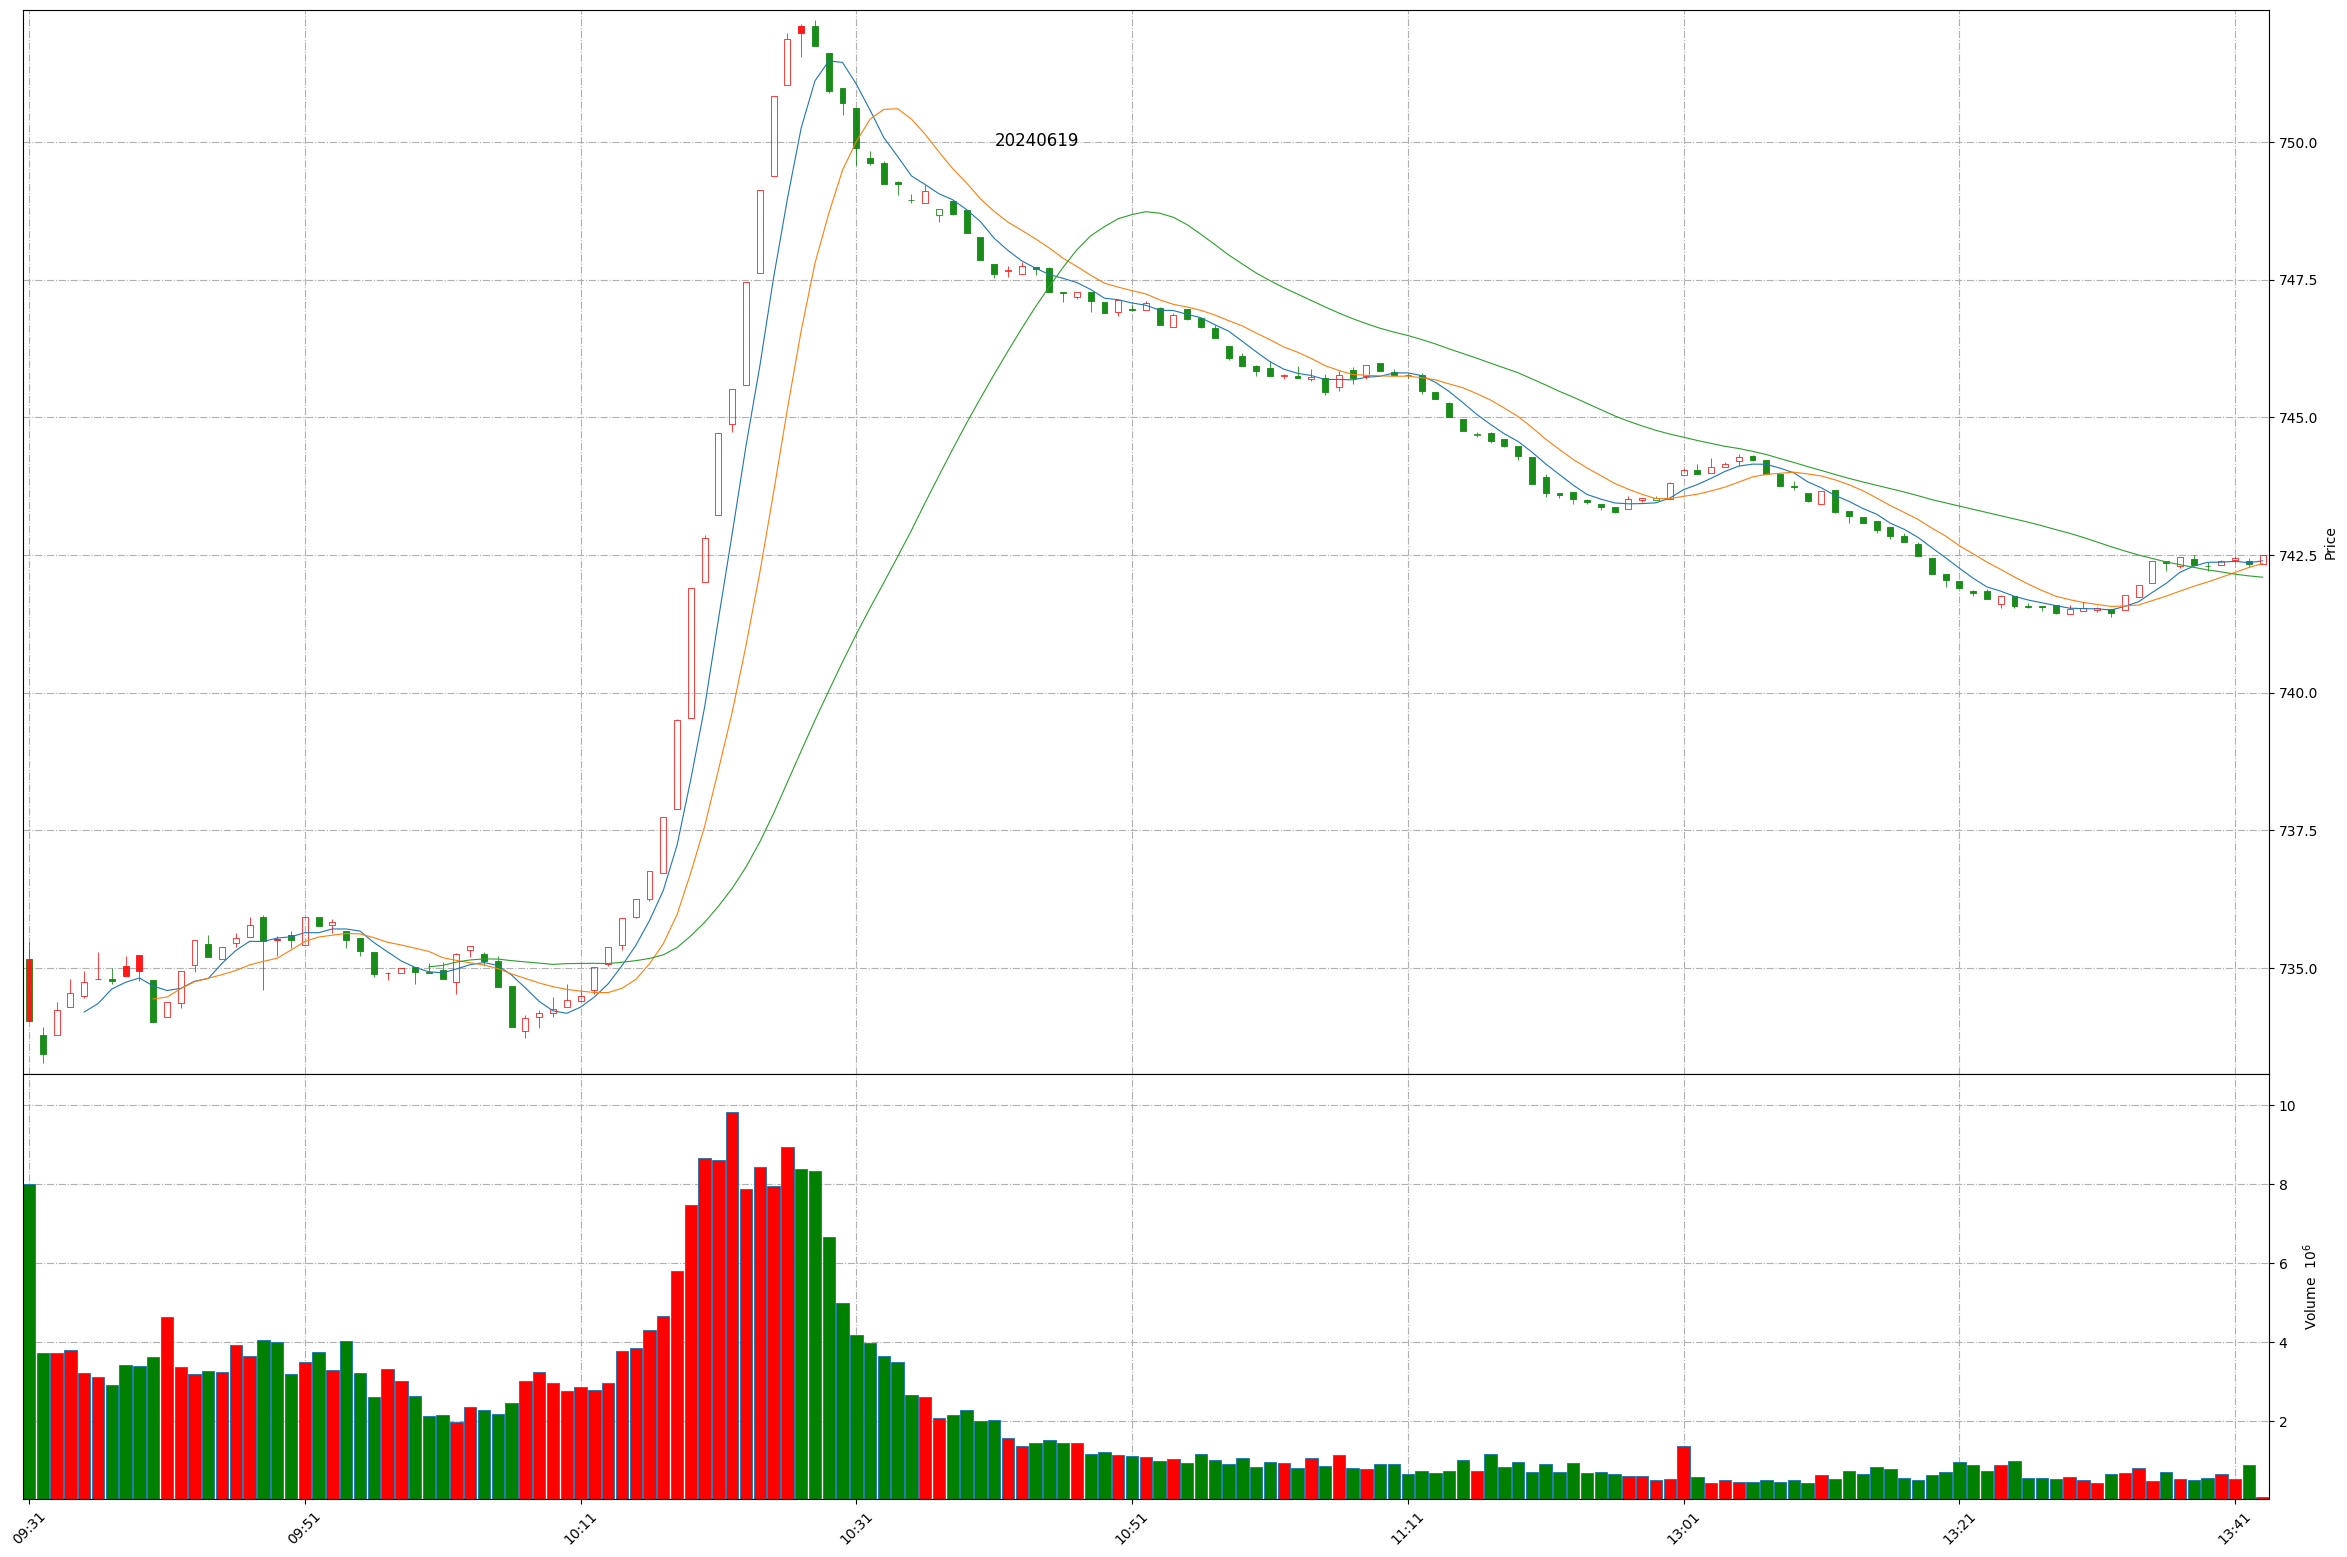
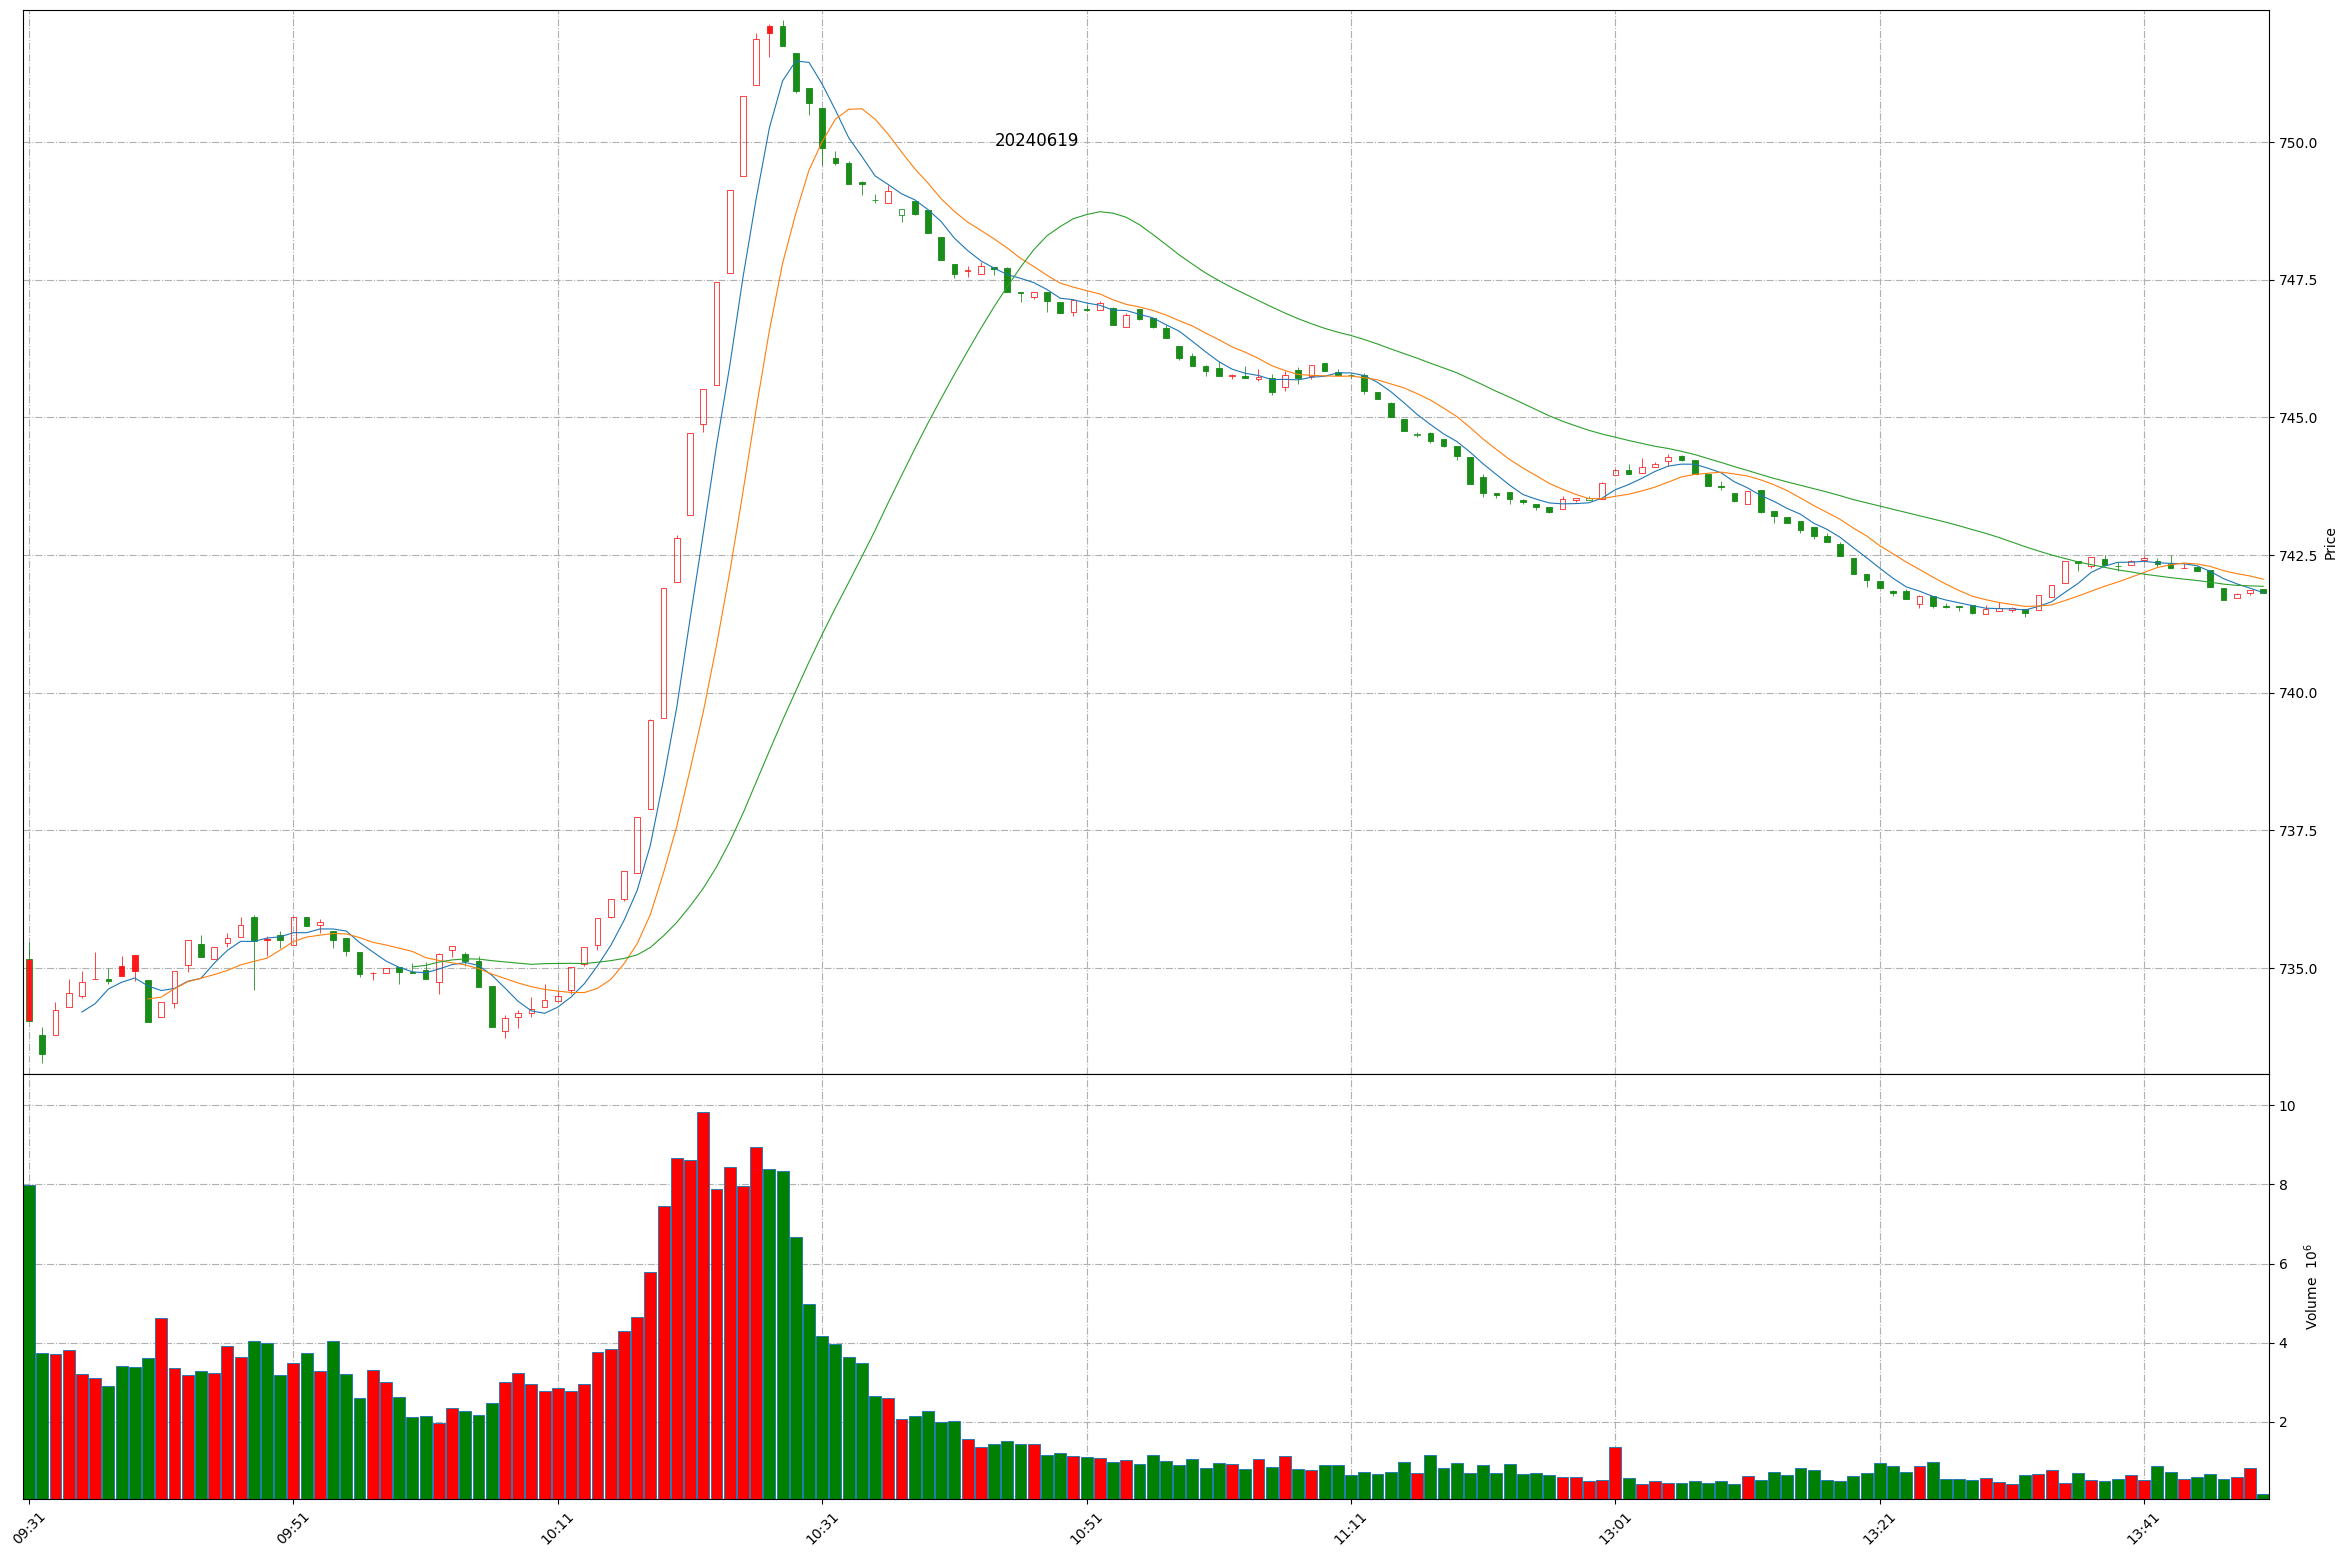
Github action update at 2024-06-19 13:49:35.

diff --git a/README.md b/README.md
@@ -1,11 +1,11 @@
 
 # Daily-A-share-market-quotes 每日 A 股指数（5min 更新）- 20240619
 
-### 上证指数 20240619 13:42
+### 上证指数 20240619 13:49
 ![](./fig/2024/6/20240619-sh000001.png)
 
-### 深证成指 20240619 13:42
+### 深证成指 20240619 13:49
 ![](./fig/2024/6/20240619-sz399001.png)
 
-### 北证50 20240619 13:42
+### 北证50 20240619 13:49
 ![](./fig/2024/6/20240619-bj899050.png)
